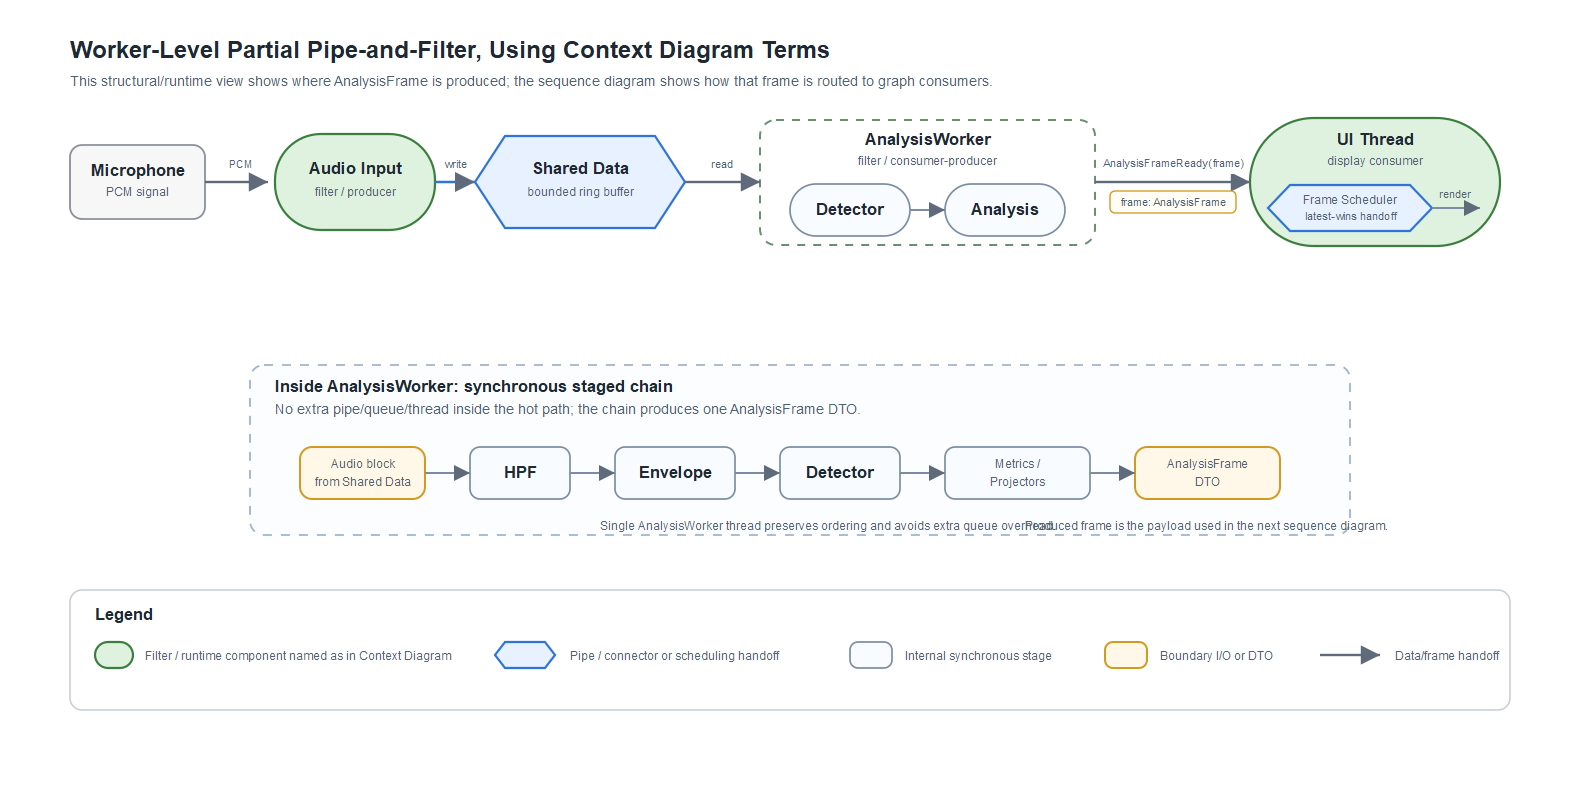
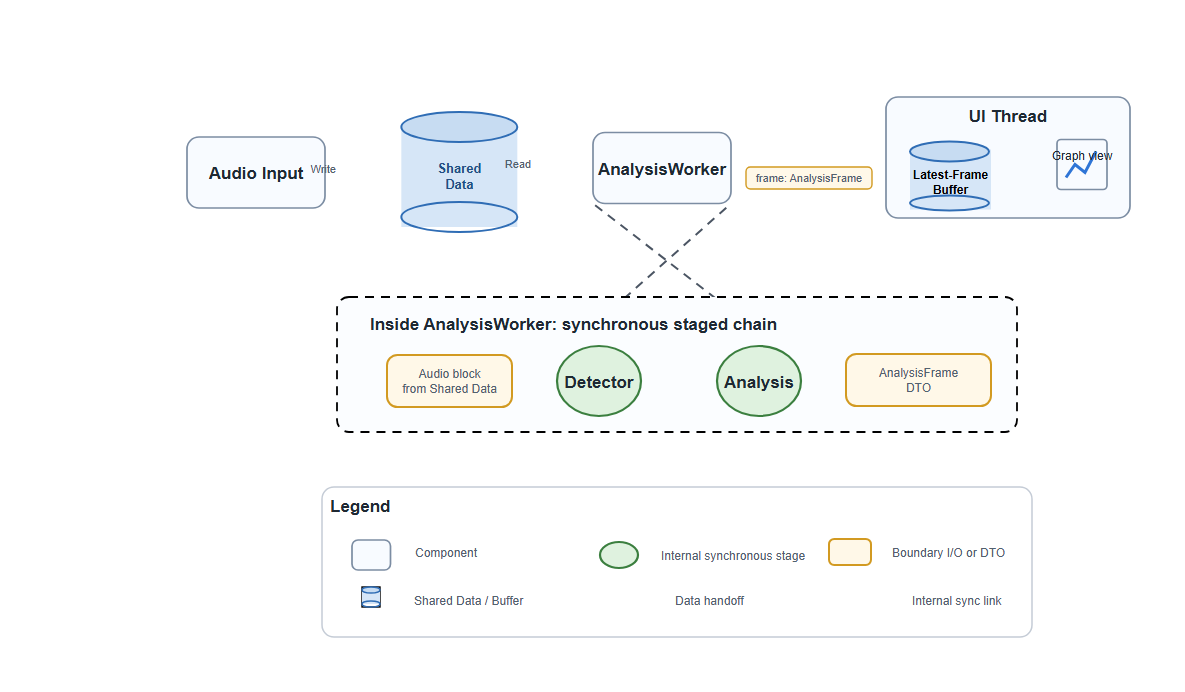
Update pipe-and-filter diagram assets

diff --git a/FinalDemo/assets/3. Pipe_And_Filter/3-Pipe-And-Filter-Diagram.md b/FinalDemo/assets/3. Pipe_And_Filter/3-Pipe-And-Filter-Diagram.md
@@ -6,6 +6,8 @@ Draw.io source: [3. Pipe_And_Filter.drawio](<3. Pipe_And_Filter.drawio>)
 
 Rendered preview: [3. Pipe_And_Filter.png](<3. Pipe_And_Filter.png>)
 
+Rendered vector preview: [3. Pipe_And_Filter.svg](<3. Pipe_And_Filter.svg>)
+
 ## Slide Purpose
 
 이 다이어그램은 Context Diagram에서 사용한 용어를 기준으로, watch sound가 UI graph로 보이기 전까지 어떤 구조적 흐름을 거치는지 보여주는 Pipe-and-Filter 관점의 architecture view이다.
@@ -26,7 +28,7 @@ Rendered preview: [3. Pipe_And_Filter.png](<3. Pipe_And_Filter.png>)
 
 `AnalysisFrameReady(frame)` 라벨은 그림에 반드시 넣지 않아도 된다. 이 그림은 Pipe-and-Filter 구조를 보여주는 view이고, 이벤트/메서드 호출을 시간 순서로 보여주는 역할은 다음 Sequence Diagram이 담당한다. 발표에서는 구두로 "이 지점에서 `AnalysisFrame` DTO가 UI 쪽으로 넘어가고, 그 이후 renderer까지의 전달은 다음 sequence diagram에서 보여드리겠습니다"라고 연결하면 된다.
 
-다만 PNG preview는 draw.io 파일을 수정한 뒤 다시 export되어야 한다. 발표 자료나 GitHub markdown에서 이미지를 직접 볼 예정이면, 최종 draw.io 기준으로 `3. Pipe_And_Filter.png`를 다시 생성해야 한다.
+현재 PNG preview와 SVG preview는 최신 draw.io 파일 기준으로 갱신되어 있다. 발표 자료나 GitHub markdown에서 이미지를 직접 볼 때는 `3. Pipe_And_Filter.png`를 사용하고, 확대해서 확인하거나 벡터 품질이 필요하면 `3. Pipe_And_Filter.svg`를 참고하면 된다.
 
 ## Notation
 
